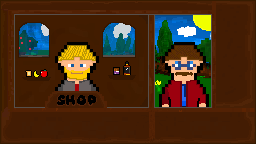
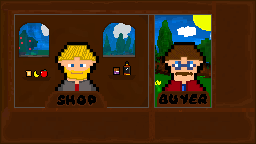
add new class - ShopManagementNorthUI

Changed region(s): [[0.5938, 0.6111, 0.8438, 0.75]]

diff --git a/src/UI/MainUI/ShopUI/ShopManagement/ShopManagementUI.java b/src/UI/MainUI/ShopUI/ShopManagement/ShopManagementUI.java
@@ -1,4 +1,4 @@
-package UI.MainUI.ShopUI;
+package UI.MainUI.ShopUI.ShopManagement;
 
 import Commands.CommandResult;
 import Commands.ShopCommands.ChangeShopLeftCommand;
@@ -19,10 +19,10 @@ import UI.MainUI.ShopUI.Bounds.BoundPanelUI;
 import UI.MainUI.ShopUI.Bounds.BoundTypes;
 import UI.MainUI.ShopUI.Days.DayUI;
 import UI.MainUI.ShopUI.Money.MoneyPanelUI;
+import UI.MainUI.ShopUI.ShopUI;
 import UI.MainUI.ShopUI.Upgrades.UpgradeUI;
 import Upgrade.Utilities.UpgradeNames;
 import Utilities.Important;
-import com.sun.tools.javac.Main;
 
 import javax.swing.*;
 import java.awt.*;
@@ -257,6 +257,7 @@ public class ShopManagementUI extends BackgroundPanel implements UpdateAble {
         north.setBorder(BorderFactory.createEmptyBorder(0,Important.calculateDimension(10),Important.calculateDimension(10),Important.calculateDimension(10)));
         initializeBalance(north);
         initializeMultipliers(north);
+        initializeQuitButton(north);
         initializeSaveButton(north);
         initializeQuitAndSaveButton(north);
         initializeRebirthButton(north);
@@ -309,6 +310,20 @@ public class ShopManagementUI extends BackgroundPanel implements UpdateAble {
 
         north.add(Box.createHorizontalStrut(Important.calculateDimension(10)));
         north.add(saveAndQuit);
+    }
+
+    private void initializeQuitButton(JPanel north) throws InvalidUILoadException {
+        CustomButton quit = new CustomButton("/MainUI/ShopUI/QUIT_GAME_BUTTON.png", 100, 100);
+        quit.addActionListener(e ->{
+            MainUI parent = (MainUI) SwingUtilities.getAncestorOfClass(MainUI.class, this);
+            try {
+                parent.showDialog(new TurnOffTheGameDialogUI("/MainUI/ShopUI/ISSUE_PANE.png", "Do you want to turn off the game without saving?", parent));
+            } catch (InvalidUILoadException ex) {
+                throw new RuntimeException(ex);
+            }
+        });
+        north.add(Box.createHorizontalStrut(Important.calculateDimension(10)));
+        north.add(quit);
     }
 
     private void initializeRebirthButton(JPanel north) throws InvalidUILoadException {

diff --git a/src/UI/MainUI/MainUI.java b/src/UI/MainUI/MainUI.java
@@ -8,8 +8,7 @@ import UI.DialogUI.DialogUI;
 import UI.Exceptions.InvalidUILoadException;
 import UI.InitialUI.MyFrame;
 import UI.MainUI.AchievementUI.AchievementManagementUI;
-import UI.MainUI.StatisticUI.EndPanelUI;
-import UI.MainUI.ShopUI.ShopManagementUI;
+import UI.MainUI.ShopUI.ShopManagement.ShopManagementUI;
 import UI.MainUI.StatisticUI.PlayerStatisticUI;
 import UI.MainUI.StockUI.StockManagementUI;
 

diff --git a/src/UI/MainUI/ShopUI/ShopManagement/ShopManagementNorthUI.java b/src/UI/MainUI/ShopUI/ShopManagement/ShopManagementNorthUI.java
@@ -1,0 +1,6 @@
+package UI.MainUI.ShopUI.ShopManagement;
+
+import javax.swing.*;
+
+public class ShopManagementNorthUI extends JPanel {
+}
